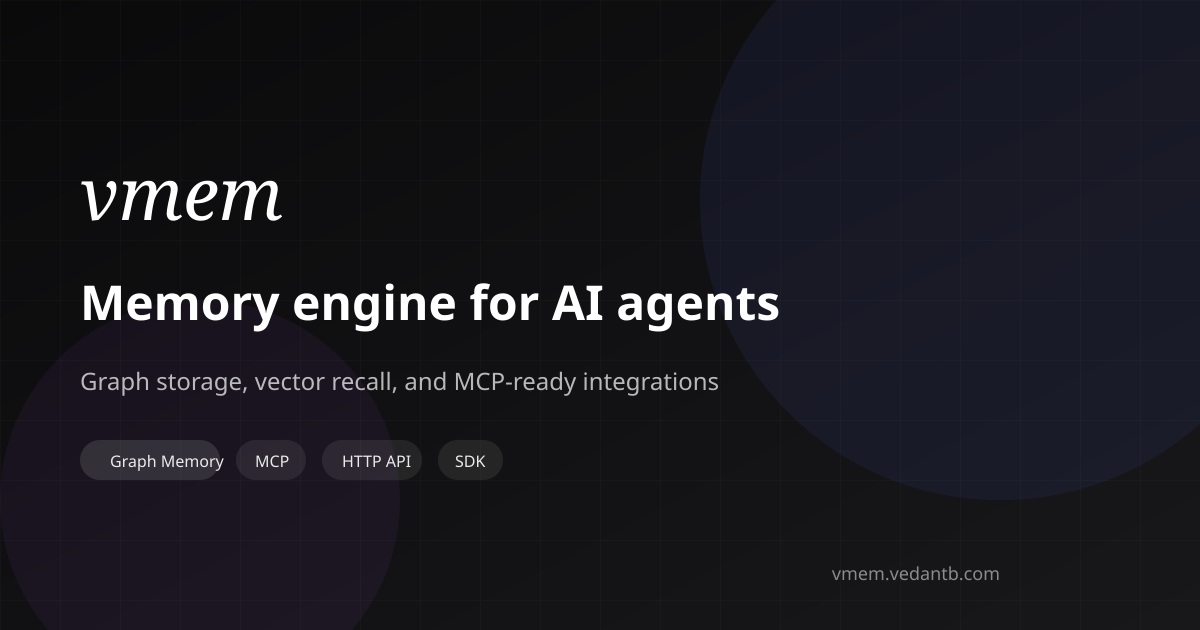
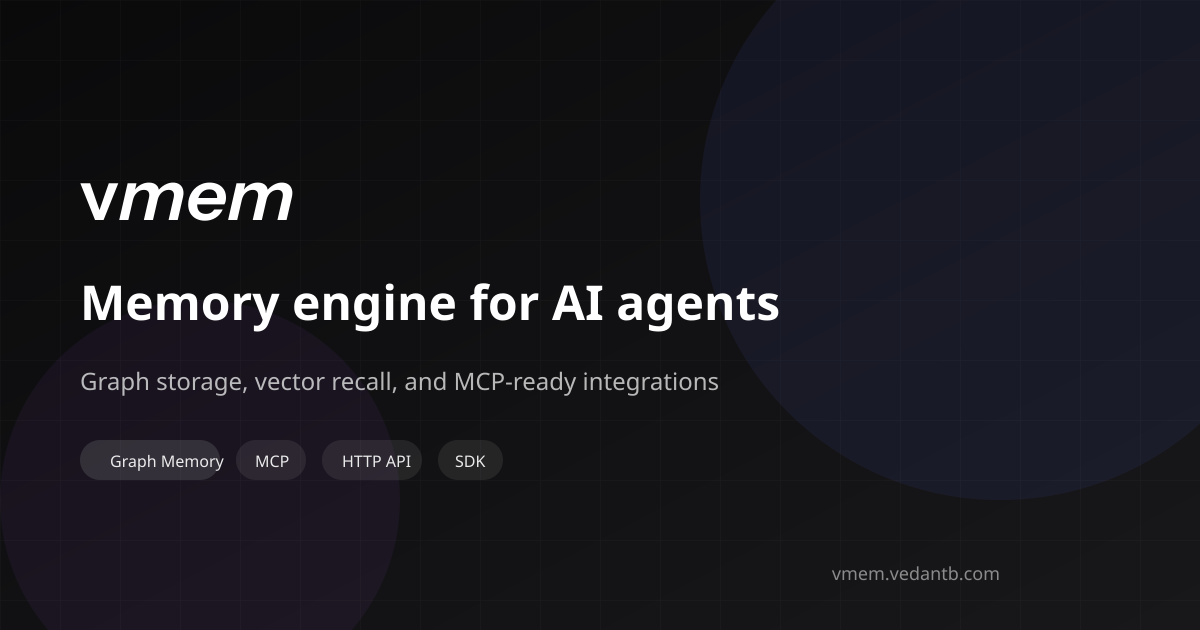
Use Instrument Sans for landing and slides headlines
Marketing copy still loaded Instrument Serif after product UI went
sans-only. Switch landing, /slides, font loading, and the OG wordmark
to Instrument Sans at semibold so large headlines do not look thin.

Changed region(s): [[0.0617, 0.2714, 0.2467, 0.3619]]

diff --git a/apps/web/index.html b/apps/web/index.html
@@ -80,14 +80,14 @@
     <!-- Non-blocking Google Fonts load (Conductor pattern) -->
     <link
       rel="stylesheet"
-      href="https://fonts.googleapis.com/css2?family=Instrument+Sans:ital,wght@0,400..700;1,400..700&family=Instrument+Serif:ital@0;1&family=Inter:wght@400;500;600;700&display=swap"
+      href="https://fonts.googleapis.com/css2?family=Instrument+Sans:ital,wght@0,400..700;1,400..700&family=Inter:wght@400;500;600;700&display=swap"
       media="print"
       onload="this.media = 'all'"
     />
     <noscript>
       <link
         rel="stylesheet"
-        href="https://fonts.googleapis.com/css2?family=Instrument+Sans:ital,wght@0,400..700;1,400..700&family=Instrument+Serif:ital@0;1&family=Inter:wght@400;500;600;700&display=swap"
+        href="https://fonts.googleapis.com/css2?family=Instrument+Sans:ital,wght@0,400..700;1,400..700&family=Inter:wght@400;500;600;700&display=swap"
       />
     </noscript>
   </head>

diff --git a/apps/web/src/routes/_components/landing/LandingCta.tsx b/apps/web/src/routes/_components/landing/LandingCta.tsx
@@ -8,7 +8,7 @@ export function LandingCta() {
     <div className="landing-atmosphere landing-grain relative overflow-hidden border-t border-separator">
       <section className={`${landingShellClass} relative z-10 py-20 sm:py-28`}>
         <LandingReveal className="flex flex-col items-center text-center">
-          <h2 className="max-w-2xl text-balance font-instrumentSerif text-3xl leading-[1.1] text-foreground sm:text-5xl">
+          <h2 className="max-w-2xl text-balance font-semibold text-3xl leading-[1.1] tracking-[-0.03em] text-foreground sm:text-5xl">
             Put memory under the agents you already use
           </h2>
           <p className="mt-4 max-w-xl text-pretty text-sm leading-relaxed text-muted sm:text-base">

diff --git a/apps/web/src/routes/_components/slides/slides/21-eva.tsx b/apps/web/src/routes/_components/slides/slides/21-eva.tsx
@@ -101,14 +101,14 @@ function PartnershipLockup({ settled }: { settled: boolean }) {
         >
           <motion.div variants={lockupItem} className="flex items-center gap-4">
             <VmemLockupIcon size={LOCKUP_ICON_SIZE} />
-            <span className="font-instrumentSerif text-7xl text-foreground">
+            <span className="text-7xl font-semibold tracking-[-0.03em] text-foreground">
               v<span className="italic">mem</span>
             </span>
           </motion.div>
 
           <motion.span
             variants={lockupItem}
-            className="font-instrumentSerif text-5xl text-muted"
+            className="text-5xl font-light text-muted"
             aria-hidden
           >
             |

diff --git a/apps/web/src/routes/_components/slides/slides/13-bento.tsx b/apps/web/src/routes/_components/slides/slides/13-bento.tsx
@@ -141,7 +141,7 @@ function BentoTile({
         ) : null}
         <div className="min-w-0">
           <h3
-            className={`font-instrumentSerif text-2xl font-normal leading-tight tracking-tight ${titleColor}`}
+            className={`text-2xl font-semibold leading-tight tracking-tight ${titleColor}`}
           >
             {title}
           </h3>
@@ -182,7 +182,7 @@ function BentoTile({
       ) : null}
 
       <h3
-        className={`font-instrumentSerif text-2xl font-normal leading-tight tracking-tight ${titleColor}`}
+        className={`text-2xl font-semibold leading-tight tracking-tight ${titleColor}`}
       >
         {title}
       </h3>

diff --git a/apps/web/src/routes/_components/slides/slides/33-questions.tsx b/apps/web/src/routes/_components/slides/slides/33-questions.tsx
@@ -34,7 +34,7 @@ export function Slide33Questions() {
         {QUESTIONS.map((q) => (
           <SlideItem key={q}>
             <div className="flex items-center gap-3 rounded-2xl bg-surface-secondary/60 px-4 py-3">
-              <span className="flex h-7 w-7 shrink-0 items-center justify-center rounded-lg bg-foreground font-instrumentSerif text-sm text-background">
+              <span className="flex h-7 w-7 shrink-0 items-center justify-center rounded-lg bg-foreground text-sm font-semibold text-background">
                 ?
               </span>
               <p className="text-sm leading-snug text-foreground">{q}</p>

diff --git a/apps/web/src/routes/_components/slides/slides/frag-collapse.tsx b/apps/web/src/routes/_components/slides/slides/frag-collapse.tsx
@@ -222,7 +222,7 @@ export function SlideFragmentCollapse() {
         <At l={CENTER.l} t={CENTER.t}>
           <div className="inline-flex items-center gap-2 whitespace-nowrap rounded-full bg-foreground px-5 py-2.5 text-background">
             <VmemDrawInIcon size={20} className="shrink-0 text-background" />
-            <span className="font-instrumentSerif text-xl leading-none text-background">
+            <span className="text-xl font-semibold leading-none text-background">
               v<span className="italic">mem</span>
             </span>
           </div>

diff --git a/apps/web/src/routes/_components/landing/LandingHero.tsx b/apps/web/src/routes/_components/landing/LandingHero.tsx
@@ -35,7 +35,7 @@ export function LandingHero() {
         </motion.p>
 
         <motion.h1
-          className="text-balance font-instrumentSerif text-[2.35rem] leading-[1] tracking-tight text-foreground min-[400px]:text-[2.85rem] sm:text-6xl lg:text-[4.85rem]"
+          className="text-balance font-semibold text-[2.35rem] leading-[1] tracking-[-0.035em] text-foreground min-[400px]:text-[2.85rem] sm:text-6xl lg:text-[4.85rem]"
           variants={landingItemVariants}
           transition={{ duration: motionDuration.slow, ease: motionEase }}
         >

diff --git a/apps/web/src/routes/_components/slides/slides/35-sovereignty.tsx b/apps/web/src/routes/_components/slides/slides/35-sovereignty.tsx
@@ -80,7 +80,7 @@ export function Slide35Sovereignty() {
         step={2}
         className="mt-8 max-w-4xl border-l-2 border-foreground/20 pl-6"
       >
-        <p className="font-instrumentSerif text-2xl leading-snug text-foreground">
+        <p className="text-2xl font-medium leading-snug tracking-tight text-foreground">
           “Switch out a <span className="italic">generalist</span> model without
           losing the <span className="italic">company veteran</span> expertise
           built into their learning system.”

diff --git a/apps/web/src/routes/_components/slides/_components/PipelineHowStages.tsx b/apps/web/src/routes/_components/slides/_components/PipelineHowStages.tsx
@@ -92,7 +92,7 @@ function PipelineStageCard({
       transition={{ duration: motionDuration.base, ease: motionEase }}
     >
       <div className="mb-3 flex items-center justify-between">
-        <span className="font-instrumentSerif text-2xl tabular-nums text-foreground/70">
+        <span className="text-2xl font-medium tabular-nums text-foreground/70">
           {stage.index}
         </span>
         <div className="flex h-8 w-8 items-center justify-center rounded-xl bg-foreground text-background">

diff --git a/apps/web/src/routes/_components/slides/_components/BlurWordsTitle.tsx b/apps/web/src/routes/_components/slides/_components/BlurWordsTitle.tsx
@@ -91,7 +91,7 @@ export function BlurWordsTitle({
 
   return (
     <motion.h1
-      className={`font-instrumentSerif ${sizeClass} font-normal leading-tight tracking-tight text-foreground`}
+      className={`${sizeClass} font-semibold leading-tight tracking-[-0.03em] text-foreground`}
       variants={containerVariants}
       // Always mount hidden: with step=0 the title is visible immediately, and
       // initial="show" would skip the entrance entirely (no word animation).

diff --git a/apps/web/src/routes/_components/slides/_components/SlideMemoryPreview.tsx b/apps/web/src/routes/_components/slides/_components/SlideMemoryPreview.tsx
@@ -103,7 +103,7 @@ export function SlideMemoryPreview({ loop = true }: SlideMemoryPreviewProps) {
         <p className="text-[10px] font-medium uppercase tracking-[0.18em] text-muted sm:tracking-[0.2em]">
           Memory graph
         </p>
-        <p className="font-instrumentSerif text-sm tabular-nums text-muted/80">
+        <p className="text-sm font-medium tabular-nums text-muted/80">
           <motion.span>{displayCount}</motion.span> nodes
         </p>
       </div>

diff --git a/apps/web/src/routes/_components/landing/LandingReveal.tsx b/apps/web/src/routes/_components/landing/LandingReveal.tsx
@@ -103,7 +103,7 @@ export function LandingSectionHeading({
   return (
     <div className={cn("max-w-2xl", className)}>
       <LandingSectionEyebrow>{eyebrow}</LandingSectionEyebrow>
-      <h2 className="text-balance font-instrumentSerif text-3xl leading-[1.08] tracking-tight text-foreground sm:text-5xl">
+      <h2 className="text-balance font-semibold text-3xl leading-[1.08] tracking-[-0.03em] text-foreground sm:text-5xl">
         {heading}
       </h2>
       {intro ? (
